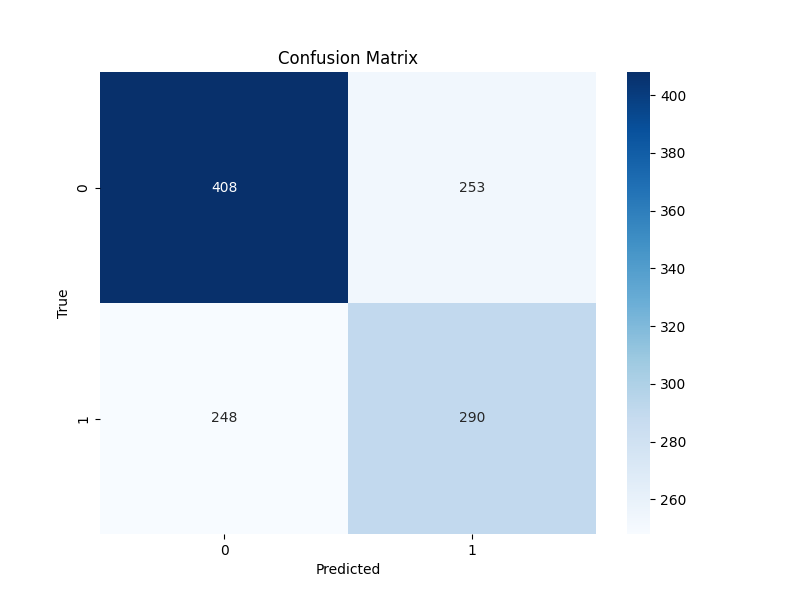
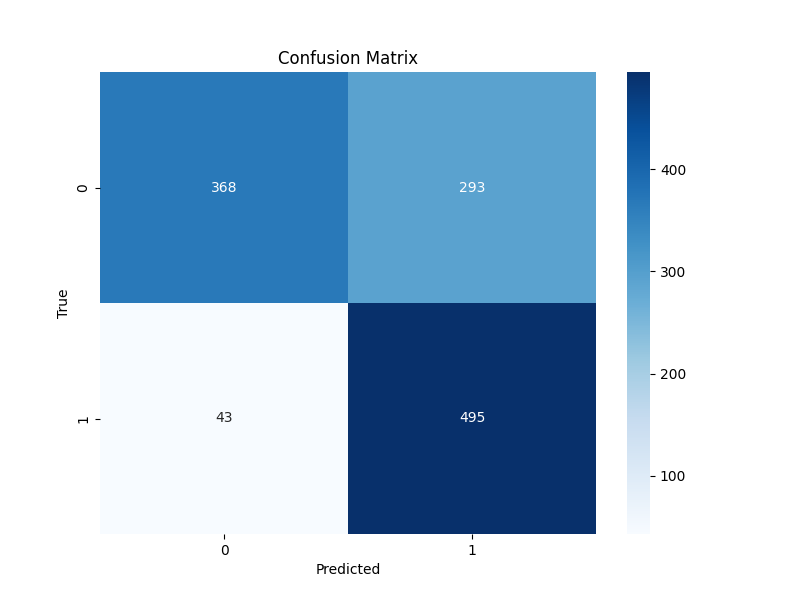
Added loss on image

diff --git a/loss_on_study/train.py b/loss_on_study/train.py
@@ -147,9 +147,8 @@ class MURAClassifier(nn.Module):
                 study_prob = torch.max(image_probs)
                 
                 # Convert back to logit
-                study_prob = torch.clamp(study_prob, min=1e-6, max=1-1e-6)  # Avoid log(0)
-                study_output = torch.log(study_prob / (1 - study_prob))
-                study_output = study_output.unsqueeze(0)  # Add dimension back
+                study_output = torch.log(study_prob / (1 - study_prob + 1e-7))
+                study_output = study_output.unsqueeze(0)
                 
             else:
                 raise ValueError(f"Unsupported aggregation strategy: {self.agg_strategy}")
@@ -157,7 +156,7 @@ class MURAClassifier(nn.Module):
             all_study_outputs.append(study_output)
             
         # Stack all study outputs
-        return torch.cat(all_study_outputs, dim=0).unsqueeze(1), batch_logits, masks
+        return torch.cat(all_study_outputs, dim=0).unsqueeze(1) 
 
 class FocalLoss(nn.Module):
     def __init__(self, alpha=0.75, gamma=2.0):
@@ -242,29 +241,9 @@ def train_model(model, train_loader, val_loader, criterion, optimizer, scheduler
             # Zero gradients
             optimizer.zero_grad()
 
-
-            """ Individual Image Forward Pass """
-
             # Forward pass
-            outputs, image_logits, masks = model(images_list)
-
-            # Expand labels to match image count
-            labels_expanded = labels.view(-1, 1, 1).expand_as(image_logits)  # shape: [batch_size, max_images, 1]
-
-            # Flatten everything and apply mask
-            flat_logits = image_logits.view(-1, 1)
-            flat_labels = labels_expanded.reshape(-1, 1)
-            flat_mask = masks.view(-1, 1)
-
-            # Filter valid (non-padded) image logits
-            valid_logits = flat_logits[flat_mask.bool()]
-            valid_labels = flat_labels[flat_mask.bool()]
-
-            # Compute per-image loss
-            loss = criterion(valid_logits, valid_labels)
-
-            """ ---------- End of Individual Image Forward Pass ---------- """
-
+            outputs = model(images_list)
+            loss = criterion(outputs, labels.view(-1, 1))
 
             # Backward pass
             loss.backward()
@@ -363,18 +342,8 @@ def evaluate_model(model, data_loader, criterion, device='cuda', threshold=0.5):
             labels = batch['label'].to(device)
 
             # Forward pass
-            outputs, image_logits, masks = model(images_list)
-            labels_expanded = labels.view(-1, 1, 1).expand_as(image_logits)
-
-            flat_logits = image_logits.view(-1, 1)
-            flat_labels = labels_expanded.reshape(-1, 1)
-            flat_mask = masks.view(-1, 1)
-
-            valid_logits = flat_logits[flat_mask.bool()]
-            valid_labels = flat_labels[flat_mask.bool()]
-
-            loss = criterion(valid_logits, valid_labels)
-
+            outputs = model(images_list)
+            loss = criterion(outputs, labels.view(-1, 1))
 
             # Track metrics
             val_loss += loss.item() * len(labels)
